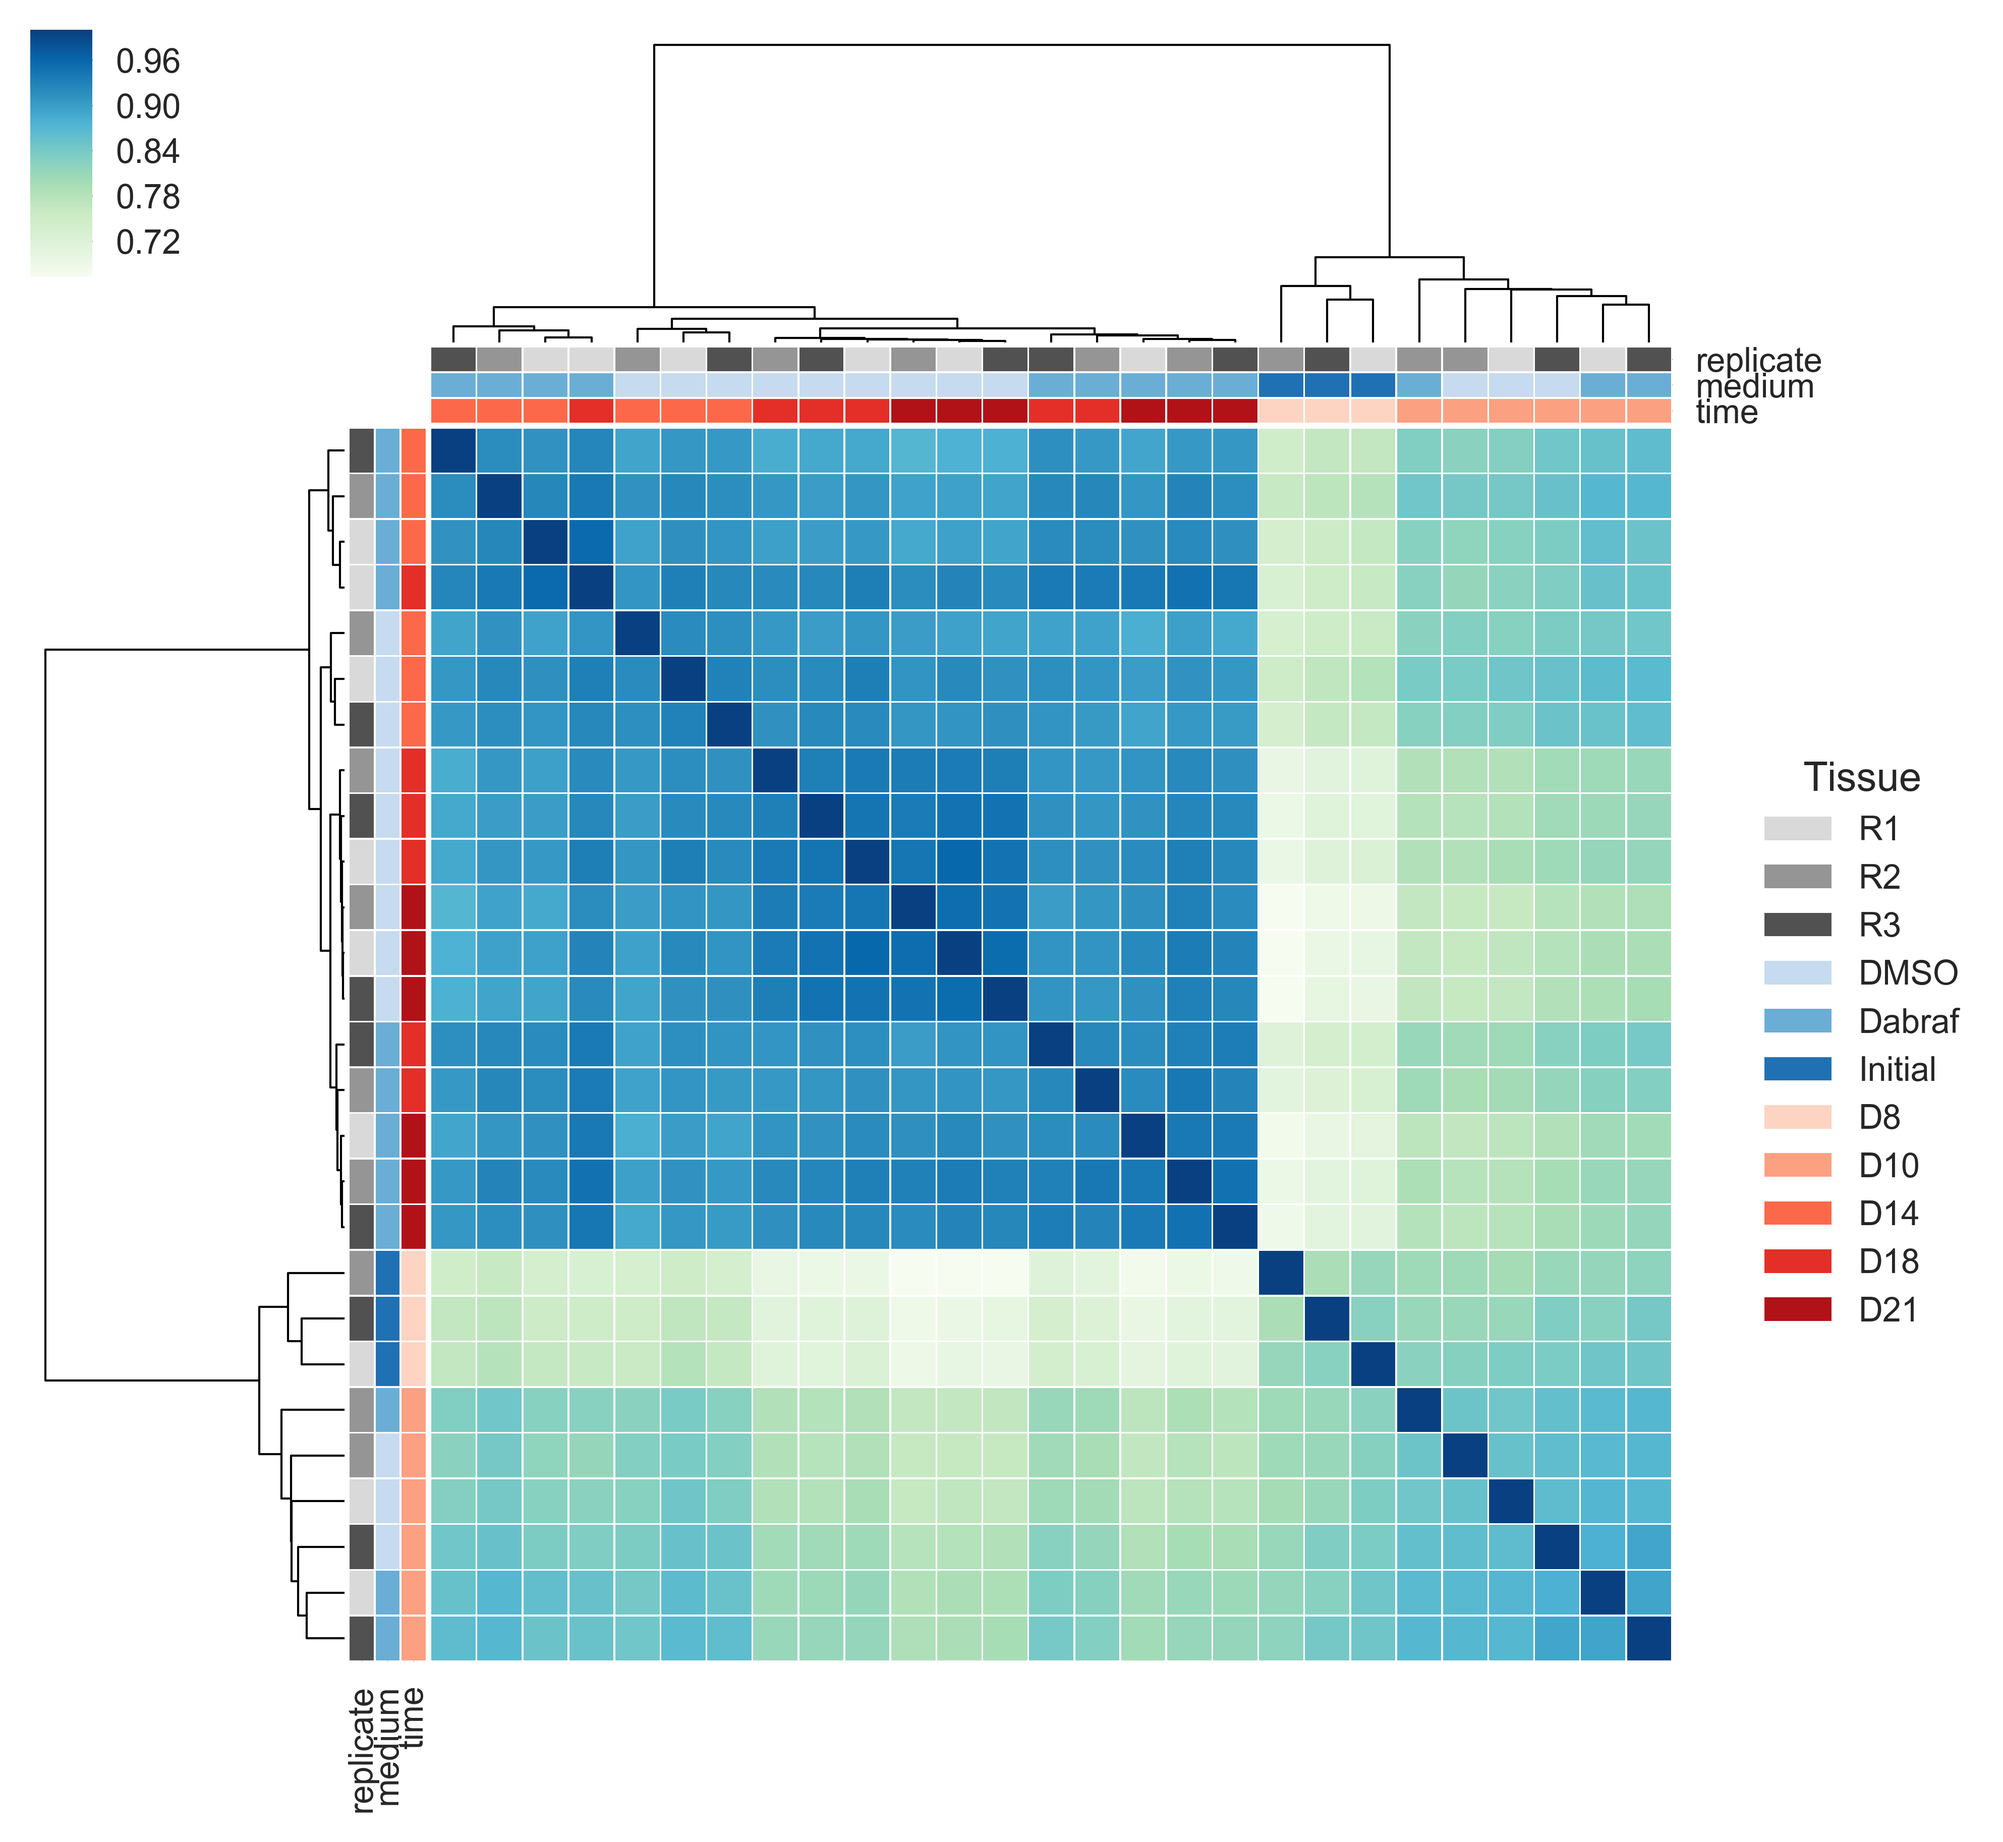
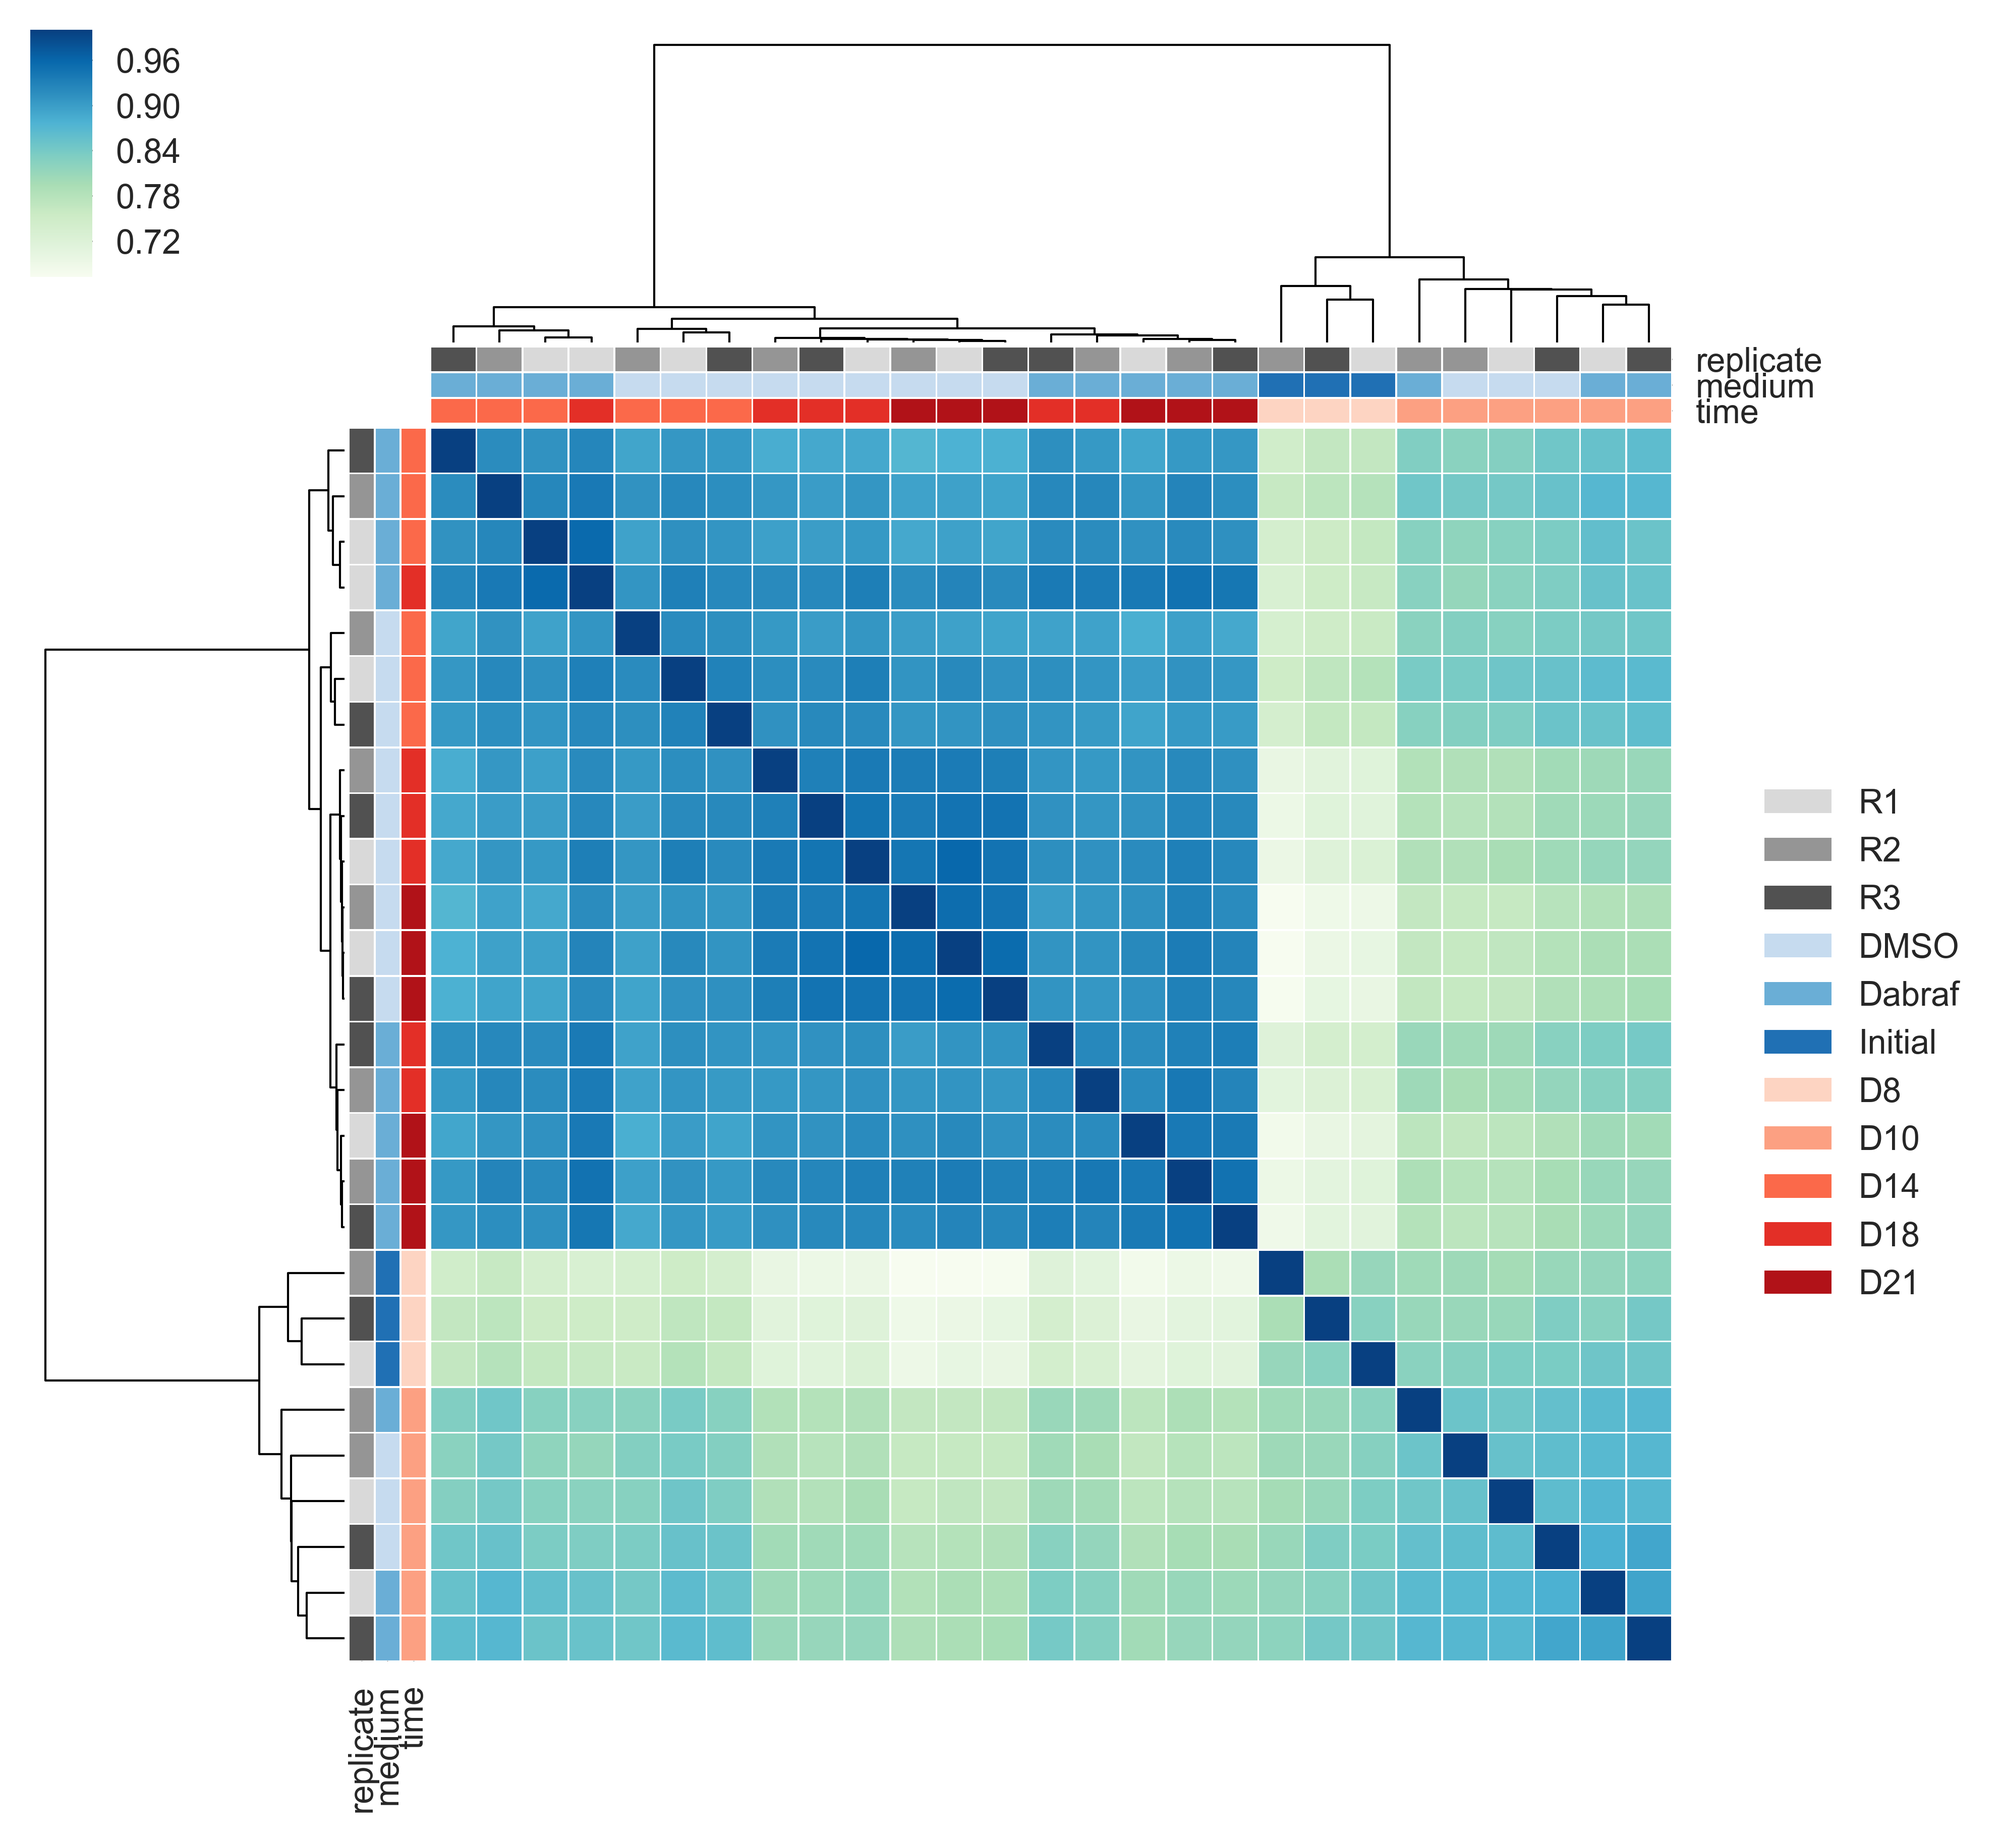
Kmeans analysis to crispr + drug.

Changed region(s): [[0.8743, 0.4058, 0.9992, 0.718]]

diff --git a/scripts/crispr_drug.py b/scripts/crispr_drug.py
@@ -1,6 +1,7 @@
 #!/usr/bin/env python
 # Copyright (C) 2017 Emanuel Goncalves
 
+import pickle
 import numpy as np
 import pandas as pd
 import seaborn as sns
@@ -8,10 +9,14 @@ import matplotlib.pyplot as plt
 import matplotlib.patches as mpatches
 import matplotlib.lines as mlines
 from natsort import natsorted
-from scipy.stats import pearsonr
+from scipy.spatial.distance import cdist
 from matplotlib.gridspec import GridSpec
-from sklearn.decomposition.pca import PCA
+from sklearn.metrics.cluster import silhouette_score, silhouette_samples
+from tslearn.metrics import cdist_soft_dtw, cdist_dtw
+from tslearn.utils import to_time_series_dataset
 from crispy.data_matrix import DataMatrix
+from sklearn.decomposition.pca import PCA
+from tslearn.clustering import TimeSeriesKMeans
 from crispy.biases_correction import CRISPRCorrection
 from crispy.benchmark_plot import plot_cumsum_auc, plot_chromosome, plot_cnv_rank
 
@@ -23,13 +28,17 @@ sgrna_lib = pd.read_csv('data/gdsc/crispr/KY_Library_v1.1_annotated.csv', index_
 # Essential genes
 essential = pd.read_csv('data/resources/curated_BAGEL_essential.csv', sep='\t')['gene'].rename('essential genes')
 
+# Non-expressed genes
+nexp = pickle.load(open('data/gdsc/gene_expression/non_expressed_genes.pickle', 'rb'))
+
 # samplesheet
 control = 'Plasmid_v1.1'
-samplesheet = pd.read_csv('data/gdsc/crispr_drug/HT29_Dabraf_samplesheet.csv', index_col='sample').replace(np.nan, 'Initial')
+samplesheet = pd.read_csv('data/gdsc/crispr_drug/HT29_Dabraf_samplesheet.csv', index_col='sample')
+samplesheet = samplesheet.assign(id=samplesheet['medium'] + '_' + samplesheet['time'])
 
-# Copy-number absolute counts
-cnv = pd.read_csv('data/gdsc/copynumber/Gene_level_CN.txt', sep='\t', index_col=0)[['HT-29']]
-cnv_abs = cnv.applymap(lambda v: int(v.split(',')[0]))
+# # Copy-number absolute counts
+# cnv = pd.read_csv('data/gdsc/copynumber/Gene_level_CN.txt', sep='\t', index_col=0)[['HT-29']]
+# cnv_abs = cnv.applymap(lambda v: int(v.split(',')[0]))
 
 
 # - Calculate fold-changes
@@ -59,16 +68,17 @@ fold_changes = raw_counts.add_constant(1).counts_normalisation().log_transform()
 
 # Export
 fold_changes.to_csv('data/gdsc/crispr_drug/HT29_dabraf_foldchanges.csv')
+
+fold_changes_gene = fold_changes.groupby(sgrna_lib.loc[fold_changes.index, 'GENES']).mean()
+fold_changes_gene.to_csv('data/gdsc/crispr_drug/HT29_dabraf_foldchanges_gene.csv')
 print(fold_changes.shape)
 
-
+# fold_changes_gene = pd.read_csv('data/gdsc/crispr_drug/HT29_dabraf_foldchanges_gene.csv', index_col=0)
 # - Plot
 cmaps = {
     f: dict(zip(*(natsorted(set(samplesheet[f])), sns.color_palette(c, len(set(samplesheet[f]))).as_hex())))
     for f, c in [('replicate', 'Greys'), ('medium', 'Blues'), ('time', 'Reds')]
 }
-
-fold_changes_gene = fold_changes.groupby(sgrna_lib.loc[fold_changes.index, 'GENES']).mean()
 
 # Essential genes AROCs
 ax, ax_stats = plot_cumsum_auc(fold_changes_gene, essential, legend=[], plot_mean=True, cmap='GnBu')
@@ -88,7 +98,7 @@ g = sns.clustermap(
 )
 
 handles = [mpatches.Circle([.0, .0], .25, facecolor=cmaps[f][v], label=v) for f in cmaps for v in cmaps[f]]
-g.ax_heatmap.legend(handles=handles, title='Tissue', loc='center left', bbox_to_anchor=(1.05, 0.5))
+g.ax_heatmap.legend(handles=handles, loc='center left', bbox_to_anchor=(1.05, 0.5))
 plt.savefig('reports/HT29_dabraf_replicates_clustermap_gene.png', bbox_inches='tight', dpi=600)
 plt.close('all')
 
@@ -110,10 +120,11 @@ plt.close('all')
 # PCA
 n_components = 5
 fc_pca = PCA(n_components=n_components).fit(fold_changes_gene.T)
-print(fc_pca.explained_variance_ratio_)
 
 fc_pcs = pd.DataFrame(fc_pca.transform(fold_changes_gene.T), index=fold_changes_gene.columns, columns=range(n_components))
 fc_pcs = pd.concat([fc_pcs, samplesheet], axis=1)
+
+t_cmap = pd.Series(dict(zip(*(natsorted(set(samplesheet['time'])), sns.light_palette('#37454B', n_colors=len(set(samplesheet['time'])) + 1).as_hex()[1:]))))
 
 medium_markers = [('Initial', 'o'), ('DMSO', 'X'), ('Dabraf', 'P')]
 
@@ -124,37 +135,108 @@ for i, (pc_x, pc_y) in enumerate([(0, 1), (0, 2)]):
     for mdm, mrk in medium_markers:
         plot_df = fc_pcs.query("medium == '%s'" % mdm)
         ax.scatter(
-            plot_df[pc_x], plot_df[pc_y], c=plot_df['time'].replace(cmaps['time']), marker=mrk, lw=.3, edgecolor='white'
+            plot_df[pc_x], plot_df[pc_y], c=t_cmap[plot_df['time']], marker=mrk, lw=.3, edgecolor='white'
         )
 
     ax.set_xlabel('PC%d (%.1f%%)' % (pc_x + 1, fc_pca.explained_variance_ratio_[pc_x] * 100))
     ax.set_ylabel('PC%d (%.1f%%)' % (pc_y + 1, fc_pca.explained_variance_ratio_[pc_y] * 100))
 
-handles = [mlines.Line2D([], [], .25, color='k', marker=mrk, label=mdm, lw=0) for mdm, mrk in medium_markers] + \
-          [mlines.Line2D([], [], .25, color=cmaps['time'][d], marker='o', label=d.replace('D', 'Day '), lw=0) for d in natsorted(cmaps['time'])]
+    ax.axhline(0, ls='-', c='k', lw=.1, alpha=.5)
+    ax.axvline(0, ls='-', c='k', lw=.1, alpha=.5)
+
+handles = [mlines.Line2D([], [], .25, color='#37454B', marker=mrk, label=mdm, lw=0) for mdm, mrk in medium_markers] + \
+          [mlines.Line2D([], [], .25, color=t_cmap[d], marker='o', label=d.replace('D', 'Day '), lw=0) for d in natsorted(t_cmap.index)]
 plt.legend(handles=handles, loc='center left', bbox_to_anchor=(1.05, 0.5))
-plt.savefig('./reports/HT29_dabraf_replicates_pca_gene.png', bbox_inches='tight', dpi=600)
+plt.savefig('reports/HT29_dabraf_replicates_pca_gene.png', bbox_inches='tight', dpi=600)
+plt.close('all')
+
+# # Copy-number effect in non-expressed genes
+# plot_df = pd.concat([fold_changes_gene, cnv_abs['HT-29'].rename('cnv')], axis=1).dropna().query('cnv != -1')
+#
+# order = range(int(max(plot_df['cnv'])) + 1)
+# plot_cnv_rank(plot_df['cnv'], plot_df.drop('cnv', axis=1).mean(1).rename('Average'), stripplot=False, order=order)
+# ax.set_title('CNV effect non-expressed genes')
+# plt.gcf().set_size_inches(3, 2)
+# plt.savefig('reports/HT29_dabraf_cnv_effect.png', bbox_inches='tight', dpi=600)
+# plt.close('all')
+
+# - Comparison
+fc_limma = pd.read_csv('data/gdsc/crispr_drug/HT29_dabraf_foldchanges_gene_limma.csv', index_col=0)
+
+conditions = [('DMSO', '#37454B'), ('Dabraf', '#F2C500')]
+
+fig, gs = plt.figure(figsize=(14, 9)), GridSpec(3, 4, hspace=.4, wspace=.4)
+
+for i, g in enumerate(fc_limma.head(12).index):
+    ax = plt.subplot(gs[i])
+
+    plot_df = pd.concat([fold_changes_gene.loc[g], samplesheet], axis=1)
+    plot_df = pd.concat([
+        plot_df.query("medium != 'Initial'"),
+        plot_df.query("medium == 'Initial'").replace({'medium': {'Initial': 'Dabraf'}}),
+        plot_df.query("medium == 'Initial'").replace({'medium': {'Initial': 'DMSO'}}),
+    ])
+
+    for mdm, clr in conditions:
+        plot_df_mrk = plot_df.query("medium == '%s'" % mdm)
+        plot_df_mrk = plot_df_mrk.assign(time=plot_df_mrk['time'].apply(lambda x: int(x[1:])))
+        plot_df_mrk = plot_df_mrk.groupby('time')[g].agg([min, max, np.mean])
+        plot_df_mrk = plot_df_mrk.assign(time=['D%d' % i for i in plot_df_mrk.index])
+
+        ax.errorbar(
+            plot_df_mrk.index, plot_df_mrk['mean'], c=clr, fmt='--o', label=mdm, capthick=0.5, capsize=2, elinewidth=1,
+            yerr=[plot_df_mrk['mean'] - plot_df_mrk['min'], plot_df_mrk['max'] - plot_df_mrk['mean']]
+        )
+
+    ax.axhline(0, ls='-', c='k', lw=.1, alpha=.5)
+
+    ax.set_xticks(list(plot_df_mrk.index))
+
+    ax.set_xlabel('Days')
+    ax.set_ylabel('CRISPR fold-change')
+    ax.legend(title='Condition')
+    ax.set_title('%s\n(F-statistics q-value=%.1e)' % (g, fc_limma.loc[g, 'adj.P.Val']))
+
+# handles = [mlines.Line2D([], [], .25, color=c, marker='o', label=l, lw=0) for l, c in conditions]
+# plt.legend(handles=handles, loc='center left', bbox_to_anchor=(1.05, 0.5))
+
+plt.savefig('reports/HT29_dabraf_pointplot.png', bbox_inches='tight', dpi=600)
 plt.close('all')
 
 
-# - CNV correction
-corrected_fc = {}
+# - K-means
+X_cols = samplesheet.query("medium != 'DMSO'").groupby('id')['time'].first().reset_index().set_index('time')['id']
 
-for sample in fold_changes:
-    # Build data-frame
-    df = pd.concat([fold_changes[sample].rename('logfc'), sgrna_lib], axis=1).dropna(subset=['logfc', 'GENES'])
-    df = df[df['GENES'].isin(cnv_abs.index)]
-    df = df.assign(cnv=list(cnv_abs.loc[df['GENES'], samplesheet.loc[sample, 'cell']]))
+X = fold_changes_gene.loc[fc_limma[fc_limma['adj.P.Val'] < 0.05].index].rename(columns=samplesheet['id'])
+X = X.groupby(X.columns, axis=1).mean()[X_cols[natsorted(X_cols.index)].values]
 
-    # Correction
-    df_gene = df.groupby('GENES').agg({'logfc': np.mean, 'cnv': np.mean, 'CHRM': 'first'})
+# n = 8
+for n in range(2, 9):
+    Xs = to_time_series_dataset(X.values)
 
-    crispy = CRISPRCorrection().rename(sample).fit_by(by=df_gene['CHRM'], X=df_gene[['cnv']], y=df_gene['logfc'])
-    df_corrected = pd.concat([
-        v.to_dataframe(df.query("CHRM == '%s'" % k)[['cnv']], df.query("CHRM == '%s'" % k)['logfc'], return_var_exp=True) for k, v in crispy.items()
-    ])
-    corrected_fc[sample] = df_corrected.assign(GENES=sgrna_lib.loc[df_corrected.index, 'GENES']).assign(sample=sample)
+    dtw_kmeans = TimeSeriesKMeans(
+        n_clusters=n, metric='softdtw', n_init=3, metric_params={'gamma_sdtw': 0.1}, verbose=False
+    ).fit(Xs)
 
-crispy_sgrna_df = pd.DataFrame({s: corrected_fc[s]['regressed_out'] for s in fold_changes})
-crispy_sgrna_df.to_csv('data/gdsc/crispr_drug/HT29_dabraf_foldchanges_corrected.csv')
-print(crispy_sgrna_df.shape)
+    y_pred = dtw_kmeans.predict(Xs)
+
+    Xs_dist = cdist_soft_dtw(Xs, gamma=dtw_kmeans.gamma_sdtw)
+
+    sscore = silhouette_score(Xs_dist, y_pred, metric='precomputed')
+
+    print(n, sscore)
+
+# Plot
+n_clusters = dtw_kmeans.cluster_centers_.shape[0]
+
+fig, gs = plt.figure(figsize=(3 * n_clusters, 2)), GridSpec(1, n_clusters, hspace=.2, wspace=.2)
+for n in range(n_clusters):
+    ax = plt.subplot(gs[n])
+
+    for xx in dtw_kmeans.X_fit_[y_pred == n]:
+        ax.plot(xx.ravel(), 'k-', alpha=.2)
+
+    plt.plot(dtw_kmeans.cluster_centers_[n].ravel(), 'r-')
+
+plt.savefig('reports/HT29_dabraf_kmeans.png', bbox_inches='tight', dpi=600)
+plt.close('all')
